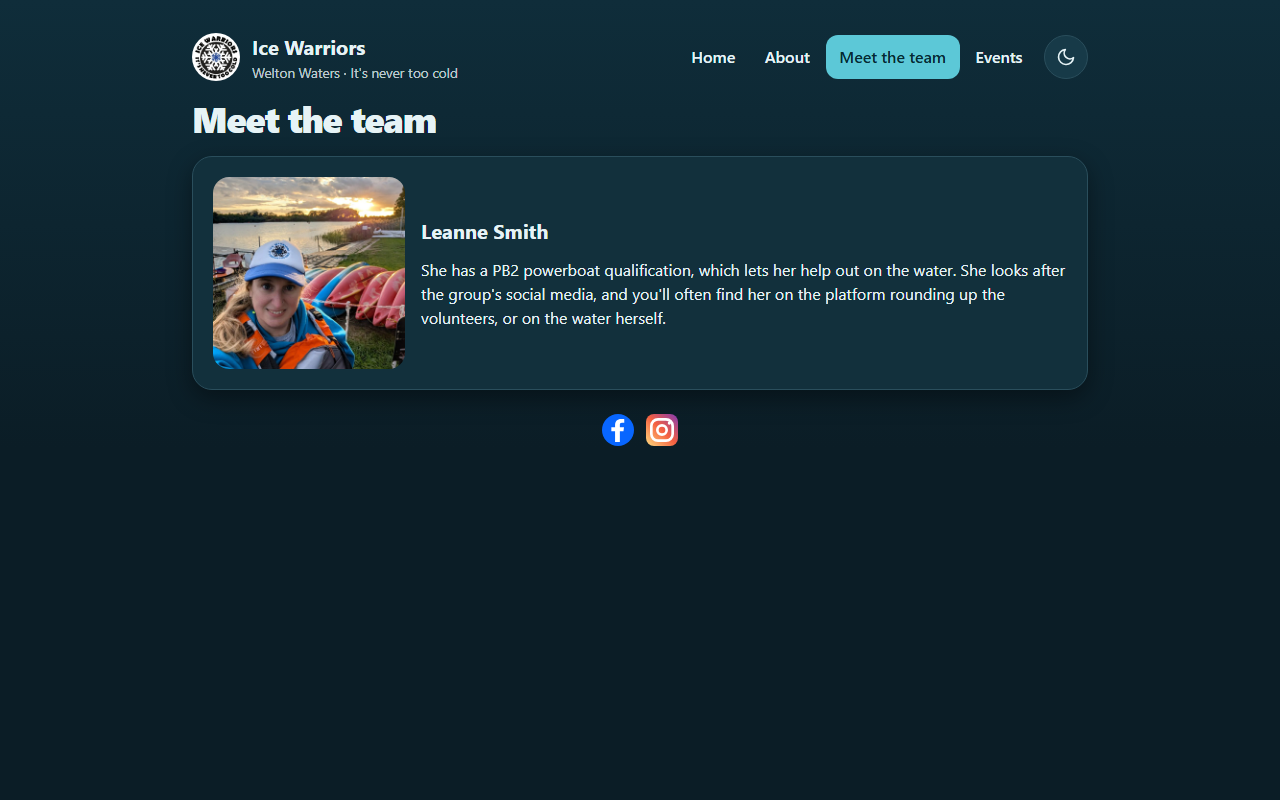
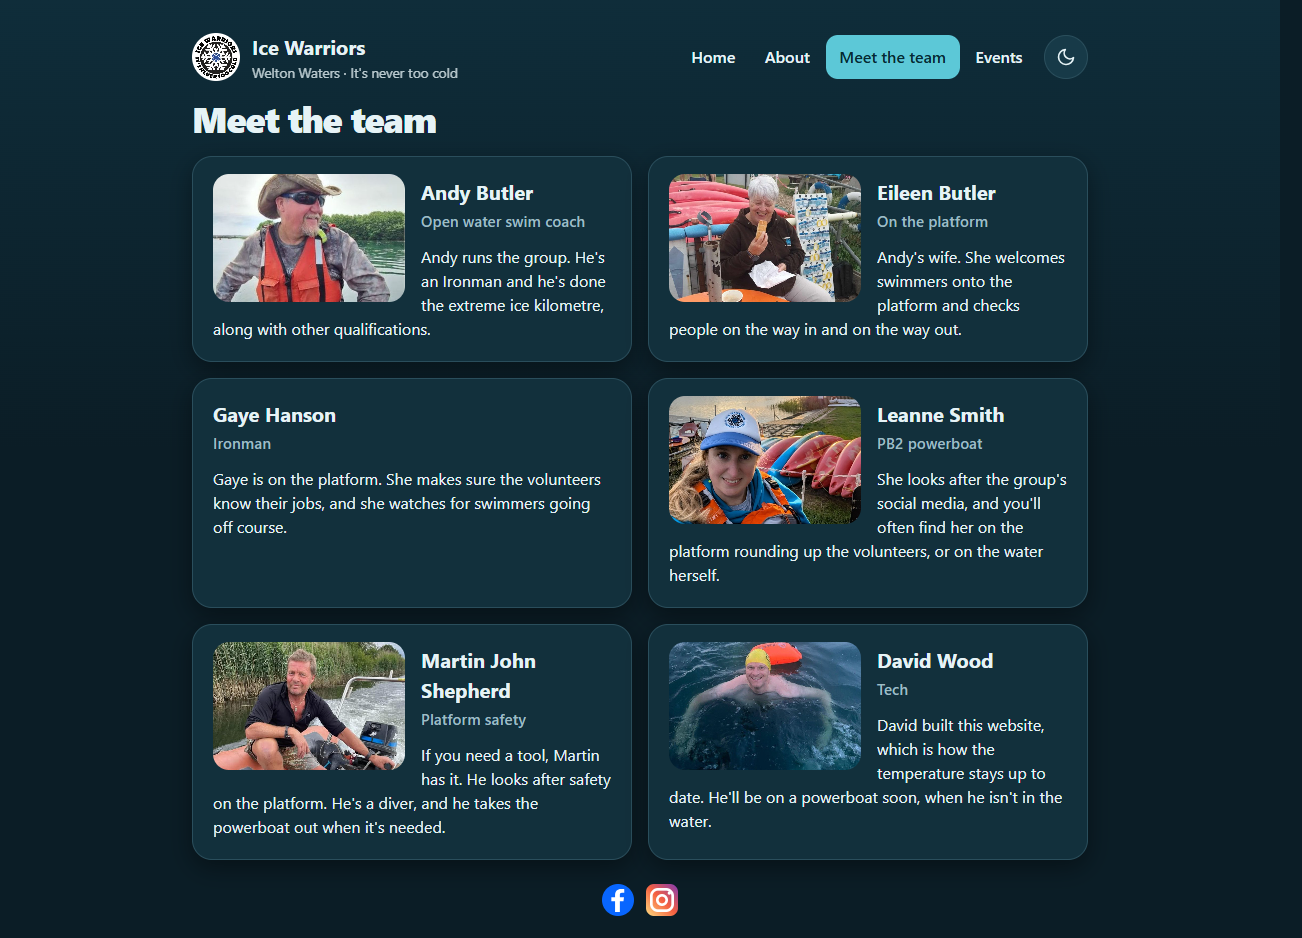
Add the team photos and a two-column layout so the page is easier to review.

diff --git a/lake-temperature/public/team.html b/lake-temperature/public/team.html
@@ -37,13 +37,60 @@
 					<h1 class="page-title">Meet the team</h1>
 				</div>
 
-				<section class="card person">
-					<img src="/images/leanne-smith.jpg" width="800" height="800" alt="Leanne Smith at Welton Waters, wearing an Ice Warriors cap, with kayaks behind her." />
-					<div class="copy">
-						<h2>Leanne Smith</h2>
-						<p>She has a PB2 powerboat qualification, which lets her help out on the water. She looks after the group's social media, and you'll often find her on the platform rounding up the volunteers, or on the water herself.</p>
-					</div>
-				</section>
+				<div class="team-grid">
+					<section class="card person">
+						<img src="/images/andy-butler.jpg" width="567" height="567" alt="Andy Butler on a boat, wearing a hat, sunglasses, and an orange lifejacket." />
+						<div class="copy">
+							<h2>Andy Butler</h2>
+							<p class="person-role">Open water swim coach</p>
+							<p>Andy runs the group. He's an Ironman and he's done the extreme ice kilometre, along with other qualifications.</p>
+						</div>
+					</section>
+
+					<section class="card person">
+						<img src="/images/eileen-butler.jpg" width="768" height="768" alt="Eileen Butler at the centre, in an Ice Warriors hoodie, with kayaks behind her." />
+						<div class="copy">
+							<h2>Eileen Butler</h2>
+							<p class="person-role">On the platform</p>
+							<p>Andy's wife. She welcomes swimmers onto the platform and checks people on the way in and on the way out.</p>
+						</div>
+					</section>
+
+					<section class="card person">
+						<div class="copy">
+							<h2>Gaye Hanson</h2>
+							<p class="person-role">Ironman</p>
+							<p>Gaye is on the platform. She makes sure the volunteers know their jobs, and she watches for swimmers going off course.</p>
+						</div>
+					</section>
+
+					<section class="card person">
+						<img src="/images/leanne-smith.jpg" width="800" height="800" alt="Leanne Smith at Welton Waters, wearing an Ice Warriors cap, with kayaks behind her." />
+						<div class="copy">
+							<h2>Leanne Smith</h2>
+							<p class="person-role">PB2 powerboat</p>
+							<p>She looks after the group's social media, and you'll often find her on the platform rounding up the volunteers, or on the water herself.</p>
+						</div>
+					</section>
+
+					<section class="card person">
+						<img class="face-high" src="/images/martin-shepherd.jpg" width="720" height="720" alt="Martin John Shepherd on a boat, with reeds along the bank behind him." />
+						<div class="copy">
+							<h2>Martin John Shepherd</h2>
+							<p class="person-role">Platform safety</p>
+							<p>If you need a tool, Martin has it. He looks after safety on the platform. He's a diver, and he takes the powerboat out when it's needed.</p>
+						</div>
+					</section>
+
+					<section class="card person">
+						<img src="/images/david-wood.jpg" width="768" height="768" alt="David Wood swimming, in a yellow hat, with an orange tow float behind him." />
+						<div class="copy">
+							<h2>David Wood</h2>
+							<p class="person-role">Tech</p>
+							<p>David built this website, which is how the temperature stays up to date. He'll be on a powerboat soon, when he isn't in the water.</p>
+						</div>
+					</section>
+				</div>
 			</article>
 
 			<footer id="social-links">

diff --git a/lake-temperature/public/styles.css b/lake-temperature/public/styles.css
@@ -264,21 +264,34 @@ figcaption {
 	text-transform: uppercase;
 }
 
-.person {
+.team-grid {
 	display: grid;
 	gap: 1rem;
-	align-items: center;
+}
+
+.person {
+	display: flow-root;
 }
 
 .person img {
-	width: min(100%, 16rem);
-	height: auto;
-	aspect-ratio: 1;
-	justify-self: start;
-	align-self: start;
+	float: left;
+	width: 9rem;
+	height: 9rem;
+	margin: 0 1rem 0.35rem 0;
 	object-fit: cover;
 	object-position: center 35%;
 	border-radius: calc(var(--radius) - 0.25rem);
+}
+
+.person img.face-high {
+	object-position: center 28%;
+}
+
+.person-role {
+	margin-top: 0.2rem;
+	color: var(--muted);
+	font-size: 0.95rem;
+	font-weight: 600;
 }
 
 .route {
@@ -635,13 +648,19 @@ figcaption {
 		gap: 0.15rem;
 	}
 
-	.person {
-		grid-template-columns: 12rem 1fr;
+	.team-grid {
+		grid-template-columns: 1fr 1fr;
 	}
 
 	.person img {
 		width: 12rem;
-		height: 12rem;
+		height: 8rem;
+		margin-top: -0.2rem;
+		object-position: center 78%;
+	}
+
+	.person img.face-high {
+		object-position: center 28%;
 	}
 
 	#chart-container {
